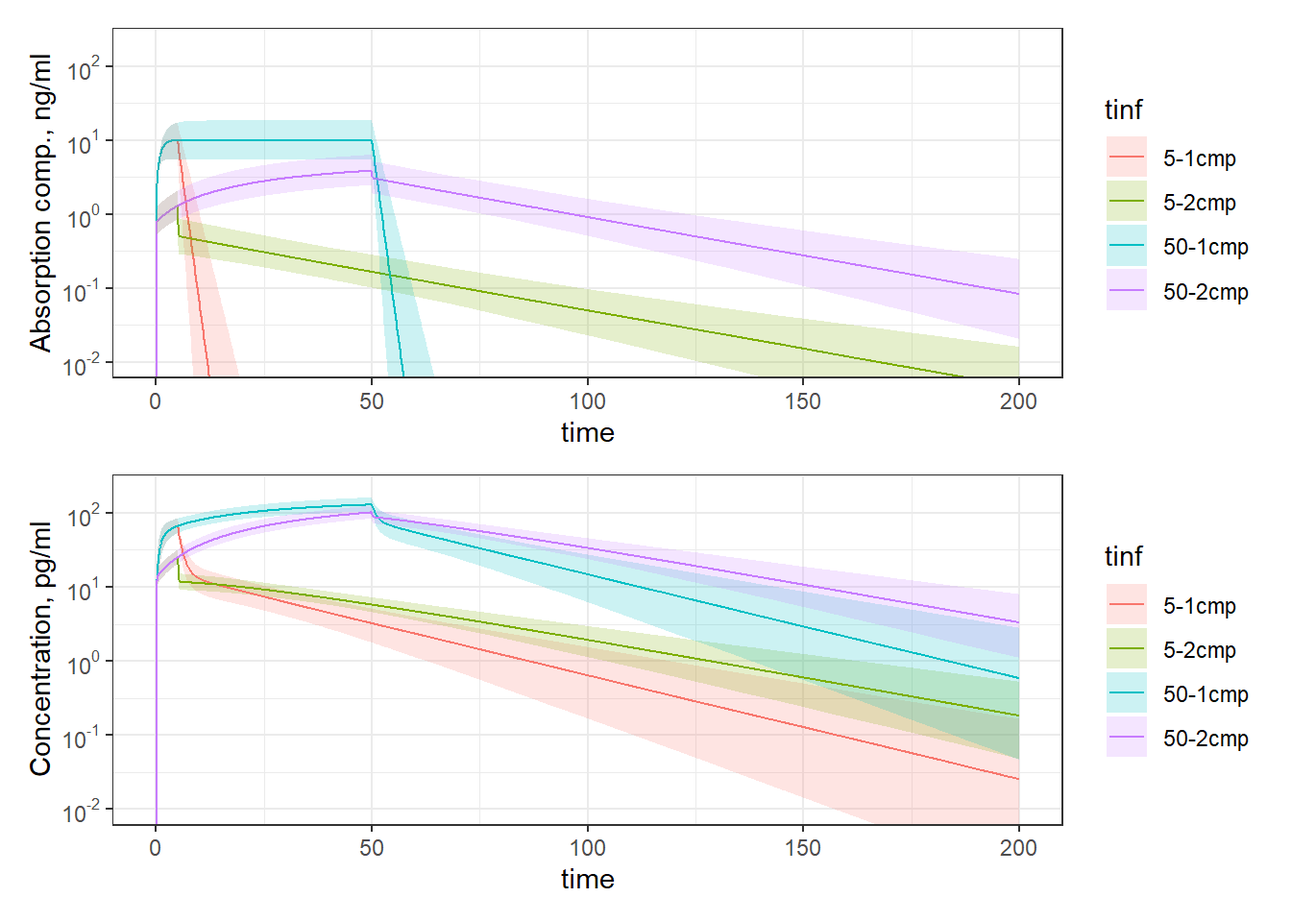
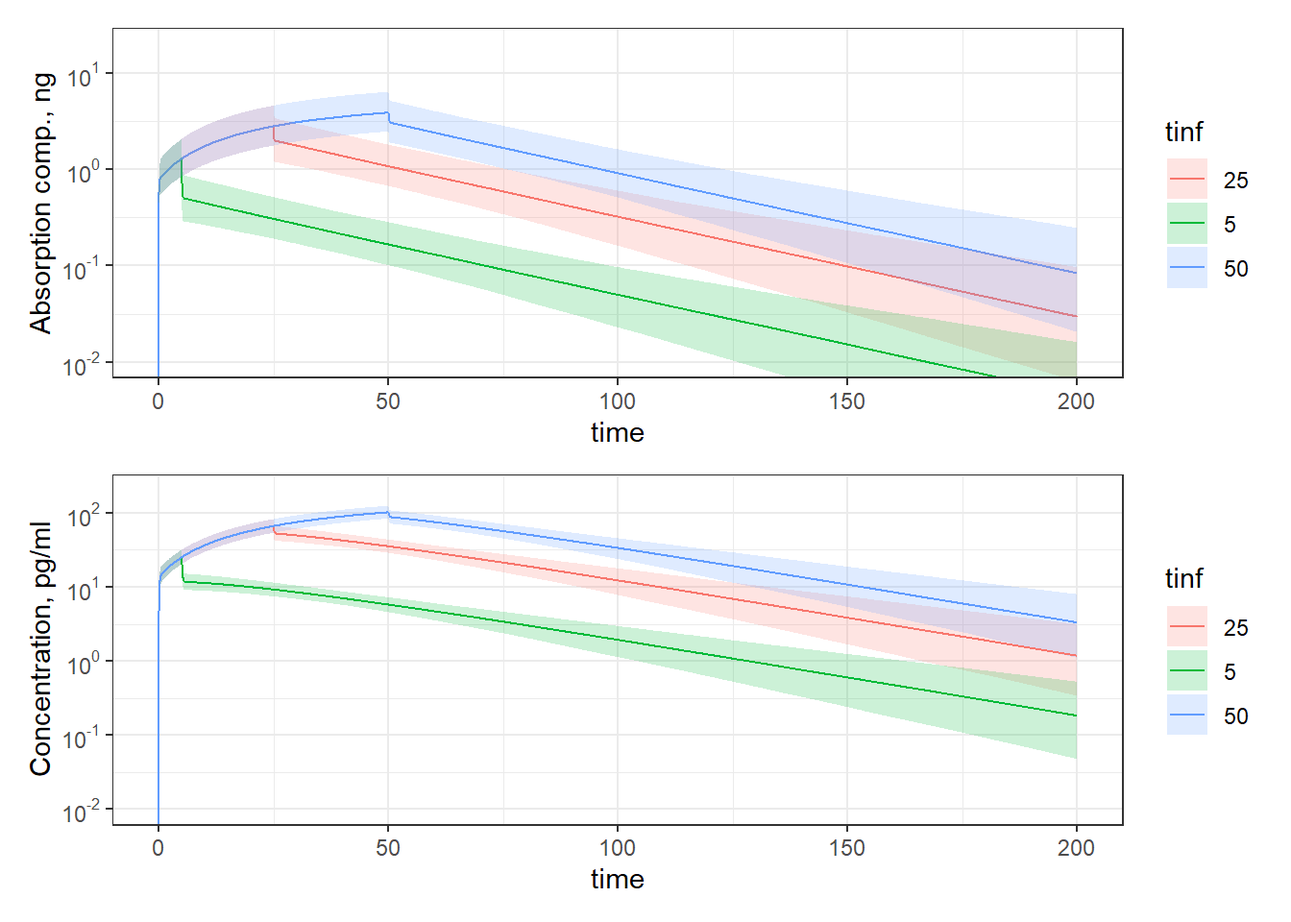
simulations

diff --git a/scripts/simulations.html b/scripts/simulations.html
@@ -11,7 +11,7 @@
 <meta name="author" content="Paulina Okuńska">
 <meta name="author" content="Agnieszka Borsuk-de Moor">
 <meta name="author" content="Justyna Ber">
-<meta name="dcterms.date" content="2025-01-14">
+<meta name="dcterms.date" content="2025-01-15">
 
 <title>Pharmacokinetics of sufentanil after epidural administration</title>
 <style>
@@ -137,7 +137,7 @@ div.csl-indent {
     <div>
     <div class="quarto-title-meta-heading">Published</div>
     <div class="quarto-title-meta-contents">
-      <p class="date">January 14, 2025</p>
+      <p class="date">January 15, 2025</p>
     </div>
   </div>
   
@@ -210,43 +210,43 @@ div.csl-indent {
 <span id="cb2-8"><a href="#cb2-8" aria-hidden="true" tabindex="-1"></a><span class="fu">dir.create</span>(model_tables_dir, <span class="at">recursive =</span> T)</span>
 <span id="cb2-9"><a href="#cb2-9" aria-hidden="true" tabindex="-1"></a></span>
 <span id="cb2-10"><a href="#cb2-10" aria-hidden="true" tabindex="-1"></a><span class="co">#----</span></span>
-<span id="cb2-11"><a href="#cb2-11" aria-hidden="true" tabindex="-1"></a>model_name <span class="ot">=</span> <span class="st">"2cmpabs-2cmpdisp"</span></span>
-<span id="cb2-12"><a href="#cb2-12" aria-hidden="true" tabindex="-1"></a>pkmod3 <span class="ot">&lt;-</span> <span class="fu">mread</span>(here<span class="sc">::</span><span class="fu">here</span>(sim_model_dir, model_name))</span>
+<span id="cb2-11"><a href="#cb2-11" aria-hidden="true" tabindex="-1"></a>model_name <span class="ot">=</span> <span class="st">"2cmpabs-1cmpdisp"</span></span>
+<span id="cb2-12"><a href="#cb2-12" aria-hidden="true" tabindex="-1"></a>pkmod1 <span class="ot">&lt;-</span> <span class="fu">mread</span>(here<span class="sc">::</span><span class="fu">here</span>(sim_model_dir, model_name))</span>
 <span id="cb2-13"><a href="#cb2-13" aria-hidden="true" tabindex="-1"></a>model_dir <span class="ot">&lt;-</span> here<span class="sc">::</span><span class="fu">here</span>(<span class="st">"model"</span>,<span class="st">"torsten"</span>) </span>
-<span id="cb2-14"><a href="#cb2-14" aria-hidden="true" tabindex="-1"></a>modx  <span class="ot">&lt;-</span> <span class="fu">read_model</span>(here<span class="sc">::</span><span class="fu">here</span>(model_dir, <span class="st">"3"</span>))</span>
+<span id="cb2-14"><a href="#cb2-14" aria-hidden="true" tabindex="-1"></a>modx  <span class="ot">&lt;-</span> <span class="fu">read_model</span>(here<span class="sc">::</span><span class="fu">here</span>(model_dir, <span class="st">"1"</span>))</span>
 <span id="cb2-15"><a href="#cb2-15" aria-hidden="true" tabindex="-1"></a>mod_to_plot <span class="ot">&lt;-</span> <span class="fu">read_fit_model</span>(modx)</span>
-<span id="cb2-16"><a href="#cb2-16" aria-hidden="true" tabindex="-1"></a>pars <span class="ot">=</span> <span class="fu">c</span>(<span class="st">"CLHat"</span>, <span class="st">"QHat"</span>, <span class="st">"V1Hat"</span>, <span class="st">"V2Hat"</span>, <span class="st">"KAHat"</span>, <span class="st">"KA14Hat"</span>, <span class="st">"KA41Hat"</span>)</span>
-<span id="cb2-17"><a href="#cb2-17" aria-hidden="true" tabindex="-1"></a>ptable3 <span class="ot">&lt;-</span> posterior<span class="sc">::</span><span class="fu">as_draws_df</span>(mod_to_plot<span class="sc">$</span><span class="fu">draws</span>(<span class="fu">c</span>(pars))) <span class="sc">%&gt;%</span></span>
+<span id="cb2-16"><a href="#cb2-16" aria-hidden="true" tabindex="-1"></a>pars <span class="ot">=</span> <span class="fu">c</span>(<span class="st">"CLHat"</span>, <span class="st">"QHat"</span>, <span class="st">"V1Hat"</span>, <span class="st">"V2Hat"</span>, <span class="st">"KAHat"</span>)</span>
+<span id="cb2-17"><a href="#cb2-17" aria-hidden="true" tabindex="-1"></a>ptable1 <span class="ot">&lt;-</span> posterior<span class="sc">::</span><span class="fu">as_draws_df</span>(mod_to_plot<span class="sc">$</span><span class="fu">draws</span>(<span class="fu">c</span>(pars))) <span class="sc">%&gt;%</span></span>
 <span id="cb2-18"><a href="#cb2-18" aria-hidden="true" tabindex="-1"></a>  <span class="fu">mutate</span>(<span class="at">ID=</span><span class="dv">1</span><span class="sc">:</span><span class="fu">n</span>()) <span class="sc">%&gt;%</span></span>
 <span id="cb2-19"><a href="#cb2-19" aria-hidden="true" tabindex="-1"></a>  <span class="fu">rename</span>(<span class="at">THETA1=</span>CLHat,</span>
 <span id="cb2-20"><a href="#cb2-20" aria-hidden="true" tabindex="-1"></a>         <span class="at">THETA2=</span>QHat,</span>
 <span id="cb2-21"><a href="#cb2-21" aria-hidden="true" tabindex="-1"></a>         <span class="at">THETA3=</span>V1Hat,</span>
 <span id="cb2-22"><a href="#cb2-22" aria-hidden="true" tabindex="-1"></a>         <span class="at">THETA4=</span>V2Hat,</span>
-<span id="cb2-23"><a href="#cb2-23" aria-hidden="true" tabindex="-1"></a>         <span class="at">THETA5=</span>KAHat,</span>
-<span id="cb2-24"><a href="#cb2-24" aria-hidden="true" tabindex="-1"></a>         <span class="at">THETA6=</span>KA14Hat,</span>
-<span id="cb2-25"><a href="#cb2-25" aria-hidden="true" tabindex="-1"></a>         <span class="at">THETA7=</span>KA41Hat)</span>
-<span id="cb2-26"><a href="#cb2-26" aria-hidden="true" tabindex="-1"></a></span>
-<span id="cb2-27"><a href="#cb2-27" aria-hidden="true" tabindex="-1"></a><span class="co">#----</span></span>
-<span id="cb2-28"><a href="#cb2-28" aria-hidden="true" tabindex="-1"></a>model_name <span class="ot">=</span> <span class="st">"2cmpabs-1cmpdisp"</span></span>
-<span id="cb2-29"><a href="#cb2-29" aria-hidden="true" tabindex="-1"></a>pkmod1 <span class="ot">&lt;-</span> <span class="fu">mread</span>(here<span class="sc">::</span><span class="fu">here</span>(sim_model_dir, model_name))</span>
-<span id="cb2-30"><a href="#cb2-30" aria-hidden="true" tabindex="-1"></a>model_dir <span class="ot">&lt;-</span> here<span class="sc">::</span><span class="fu">here</span>(<span class="st">"model"</span>,<span class="st">"torsten"</span>) </span>
-<span id="cb2-31"><a href="#cb2-31" aria-hidden="true" tabindex="-1"></a>modx  <span class="ot">&lt;-</span> <span class="fu">read_model</span>(here<span class="sc">::</span><span class="fu">here</span>(model_dir, <span class="st">"1"</span>))</span>
-<span id="cb2-32"><a href="#cb2-32" aria-hidden="true" tabindex="-1"></a>mod_to_plot <span class="ot">&lt;-</span> <span class="fu">read_fit_model</span>(modx)</span>
-<span id="cb2-33"><a href="#cb2-33" aria-hidden="true" tabindex="-1"></a>pars <span class="ot">=</span> <span class="fu">c</span>(<span class="st">"CLHat"</span>, <span class="st">"QHat"</span>, <span class="st">"V1Hat"</span>, <span class="st">"V2Hat"</span>, <span class="st">"KAHat"</span>)</span>
-<span id="cb2-34"><a href="#cb2-34" aria-hidden="true" tabindex="-1"></a>ptable1 <span class="ot">&lt;-</span> posterior<span class="sc">::</span><span class="fu">as_draws_df</span>(mod_to_plot<span class="sc">$</span><span class="fu">draws</span>(<span class="fu">c</span>(pars))) <span class="sc">%&gt;%</span></span>
-<span id="cb2-35"><a href="#cb2-35" aria-hidden="true" tabindex="-1"></a>  <span class="fu">mutate</span>(<span class="at">ID=</span><span class="dv">1</span><span class="sc">:</span><span class="fu">n</span>()) <span class="sc">%&gt;%</span></span>
-<span id="cb2-36"><a href="#cb2-36" aria-hidden="true" tabindex="-1"></a>  <span class="fu">rename</span>(<span class="at">THETA1=</span>CLHat,</span>
-<span id="cb2-37"><a href="#cb2-37" aria-hidden="true" tabindex="-1"></a>         <span class="at">THETA2=</span>QHat,</span>
-<span id="cb2-38"><a href="#cb2-38" aria-hidden="true" tabindex="-1"></a>         <span class="at">THETA3=</span>V1Hat,</span>
-<span id="cb2-39"><a href="#cb2-39" aria-hidden="true" tabindex="-1"></a>         <span class="at">THETA4=</span>V2Hat,</span>
-<span id="cb2-40"><a href="#cb2-40" aria-hidden="true" tabindex="-1"></a>         <span class="at">THETA5=</span>KAHat)</span></code><button title="Copy to Clipboard" class="code-copy-button"><i class="bi"></i></button></pre></div>
+<span id="cb2-23"><a href="#cb2-23" aria-hidden="true" tabindex="-1"></a>         <span class="at">THETA5=</span>KAHat)</span>
+<span id="cb2-24"><a href="#cb2-24" aria-hidden="true" tabindex="-1"></a></span>
+<span id="cb2-25"><a href="#cb2-25" aria-hidden="true" tabindex="-1"></a><span class="co">#----</span></span>
+<span id="cb2-26"><a href="#cb2-26" aria-hidden="true" tabindex="-1"></a>model_name <span class="ot">=</span> <span class="st">"2cmpabs-2cmpdisp"</span></span>
+<span id="cb2-27"><a href="#cb2-27" aria-hidden="true" tabindex="-1"></a>pkmod3 <span class="ot">&lt;-</span> <span class="fu">mread</span>(here<span class="sc">::</span><span class="fu">here</span>(sim_model_dir, model_name))</span>
+<span id="cb2-28"><a href="#cb2-28" aria-hidden="true" tabindex="-1"></a>model_dir <span class="ot">&lt;-</span> here<span class="sc">::</span><span class="fu">here</span>(<span class="st">"model"</span>,<span class="st">"torsten"</span>) </span>
+<span id="cb2-29"><a href="#cb2-29" aria-hidden="true" tabindex="-1"></a>modx  <span class="ot">&lt;-</span> <span class="fu">read_model</span>(here<span class="sc">::</span><span class="fu">here</span>(model_dir, <span class="st">"3"</span>))</span>
+<span id="cb2-30"><a href="#cb2-30" aria-hidden="true" tabindex="-1"></a>mod_to_plot <span class="ot">&lt;-</span> <span class="fu">read_fit_model</span>(modx)</span>
+<span id="cb2-31"><a href="#cb2-31" aria-hidden="true" tabindex="-1"></a>pars <span class="ot">=</span> <span class="fu">c</span>(<span class="st">"CLHat"</span>, <span class="st">"QHat"</span>, <span class="st">"V1Hat"</span>, <span class="st">"V2Hat"</span>, <span class="st">"KAHat"</span>, <span class="st">"KA14Hat"</span>, <span class="st">"KA41Hat"</span>)</span>
+<span id="cb2-32"><a href="#cb2-32" aria-hidden="true" tabindex="-1"></a>ptable3 <span class="ot">&lt;-</span> posterior<span class="sc">::</span><span class="fu">as_draws_df</span>(mod_to_plot<span class="sc">$</span><span class="fu">draws</span>(<span class="fu">c</span>(pars))) <span class="sc">%&gt;%</span></span>
+<span id="cb2-33"><a href="#cb2-33" aria-hidden="true" tabindex="-1"></a>  <span class="fu">mutate</span>(<span class="at">ID=</span><span class="dv">1</span><span class="sc">:</span><span class="fu">n</span>()) <span class="sc">%&gt;%</span></span>
+<span id="cb2-34"><a href="#cb2-34" aria-hidden="true" tabindex="-1"></a>  <span class="fu">rename</span>(<span class="at">THETA1=</span>CLHat,</span>
+<span id="cb2-35"><a href="#cb2-35" aria-hidden="true" tabindex="-1"></a>         <span class="at">THETA2=</span>QHat,</span>
+<span id="cb2-36"><a href="#cb2-36" aria-hidden="true" tabindex="-1"></a>         <span class="at">THETA3=</span>V1Hat,</span>
+<span id="cb2-37"><a href="#cb2-37" aria-hidden="true" tabindex="-1"></a>         <span class="at">THETA4=</span>V2Hat,</span>
+<span id="cb2-38"><a href="#cb2-38" aria-hidden="true" tabindex="-1"></a>         <span class="at">THETA5=</span>KAHat,</span>
+<span id="cb2-39"><a href="#cb2-39" aria-hidden="true" tabindex="-1"></a>         <span class="at">THETA6=</span>KA14Hat,</span>
+<span id="cb2-40"><a href="#cb2-40" aria-hidden="true" tabindex="-1"></a>         <span class="at">THETA7=</span>KA41Hat)</span></code><button title="Copy to Clipboard" class="code-copy-button"><i class="bi"></i></button></pre></div>
 </details>
 </div>
 <div class="cell">
 <details>
 <summary>Code</summary>
-<div class="sourceCode cell-code" id="cb3"><pre class="sourceCode r code-with-copy"><code class="sourceCode r"><span id="cb3-1"><a href="#cb3-1" aria-hidden="true" tabindex="-1"></a>data5_1<span class="ot">&lt;-</span>pkmod1 <span class="sc">%&gt;%</span> </span>
-<span id="cb3-2"><a href="#cb3-2" aria-hidden="true" tabindex="-1"></a>  <span class="fu">idata_set</span>(ptable1)<span class="sc">%&gt;%</span></span>
+<div class="sourceCode cell-code" id="cb3"><pre class="sourceCode r code-with-copy"><code class="sourceCode r"><span id="cb3-1"><a href="#cb3-1" aria-hidden="true" tabindex="-1"></a>data5_3<span class="ot">&lt;-</span>pkmod3 <span class="sc">%&gt;%</span> </span>
+<span id="cb3-2"><a href="#cb3-2" aria-hidden="true" tabindex="-1"></a>  <span class="fu">idata_set</span>(ptable3)<span class="sc">%&gt;%</span></span>
 <span id="cb3-3"><a href="#cb3-3" aria-hidden="true" tabindex="-1"></a>  <span class="fu">ev</span>(<span class="at">amt =</span> <span class="dv">50</span>, <span class="at">rate =</span> <span class="dv">10</span>) <span class="sc">%&gt;%</span> </span>
 <span id="cb3-4"><a href="#cb3-4" aria-hidden="true" tabindex="-1"></a>  <span class="fu">mrgsim</span>(<span class="at">start=</span><span class="dv">0</span>, <span class="at">end =</span> <span class="dv">200</span>, <span class="at">delta =</span> <span class="fl">0.1</span>) <span class="sc">%&gt;%</span></span>
 <span id="cb3-5"><a href="#cb3-5" aria-hidden="true" tabindex="-1"></a>  <span class="fu">as.data.frame</span>() <span class="sc">%&gt;%</span></span>
@@ -257,11 +257,11 @@ div.csl-indent {
 <span id="cb3-10"><a href="#cb3-10" aria-hidden="true" tabindex="-1"></a>            <span class="at">contq0.5 =</span>  <span class="fu">quantile</span>(CENT,<span class="at">probs=</span><span class="fu">c</span>(<span class="fl">0.5</span>)),</span>
 <span id="cb3-11"><a href="#cb3-11" aria-hidden="true" tabindex="-1"></a>            <span class="at">contq0.05 =</span> <span class="fu">quantile</span>(CENT,<span class="at">probs=</span><span class="fu">c</span>(<span class="fl">0.05</span>)),</span>
 <span id="cb3-12"><a href="#cb3-12" aria-hidden="true" tabindex="-1"></a>            <span class="at">contq0.95  =</span><span class="fu">quantile</span>(CENT,<span class="at">probs=</span><span class="fu">c</span>(<span class="fl">0.95</span>))) <span class="sc">%&gt;%</span></span>
-<span id="cb3-13"><a href="#cb3-13" aria-hidden="true" tabindex="-1"></a>  <span class="fu">mutate</span>(<span class="at">tinf =</span> <span class="st">"5-1cmp"</span>)</span>
+<span id="cb3-13"><a href="#cb3-13" aria-hidden="true" tabindex="-1"></a>  <span class="fu">mutate</span>(<span class="at">tinf =</span> <span class="st">"5"</span>)</span>
 <span id="cb3-14"><a href="#cb3-14" aria-hidden="true" tabindex="-1"></a></span>
-<span id="cb3-15"><a href="#cb3-15" aria-hidden="true" tabindex="-1"></a>data50_1<span class="ot">&lt;-</span>pkmod1 <span class="sc">%&gt;%</span> </span>
-<span id="cb3-16"><a href="#cb3-16" aria-hidden="true" tabindex="-1"></a>  <span class="fu">idata_set</span>(ptable1)<span class="sc">%&gt;%</span></span>
-<span id="cb3-17"><a href="#cb3-17" aria-hidden="true" tabindex="-1"></a>  <span class="fu">ev</span>(<span class="at">amt =</span> <span class="dv">500</span>, <span class="at">rate =</span> <span class="dv">10</span>) <span class="sc">%&gt;%</span> </span>
+<span id="cb3-15"><a href="#cb3-15" aria-hidden="true" tabindex="-1"></a>data25_3<span class="ot">&lt;-</span>pkmod3 <span class="sc">%&gt;%</span> </span>
+<span id="cb3-16"><a href="#cb3-16" aria-hidden="true" tabindex="-1"></a>  <span class="fu">idata_set</span>(ptable3)<span class="sc">%&gt;%</span></span>
+<span id="cb3-17"><a href="#cb3-17" aria-hidden="true" tabindex="-1"></a>  <span class="fu">ev</span>(<span class="at">amt =</span> <span class="dv">250</span>, <span class="at">rate =</span> <span class="dv">10</span>) <span class="sc">%&gt;%</span> </span>
 <span id="cb3-18"><a href="#cb3-18" aria-hidden="true" tabindex="-1"></a>  <span class="fu">mrgsim</span>(<span class="at">start=</span><span class="dv">0</span>, <span class="at">end =</span> <span class="dv">200</span>, <span class="at">delta =</span> <span class="fl">0.1</span>) <span class="sc">%&gt;%</span></span>
 <span id="cb3-19"><a href="#cb3-19" aria-hidden="true" tabindex="-1"></a>  <span class="fu">as.data.frame</span>() <span class="sc">%&gt;%</span></span>
 <span id="cb3-20"><a href="#cb3-20" aria-hidden="true" tabindex="-1"></a>  <span class="fu">group_by</span>(time) <span class="sc">%&gt;%</span></span>
@@ -271,11 +271,11 @@ div.csl-indent {
 <span id="cb3-24"><a href="#cb3-24" aria-hidden="true" tabindex="-1"></a>            <span class="at">contq0.5 =</span>  <span class="fu">quantile</span>(CENT,<span class="at">probs=</span><span class="fu">c</span>(<span class="fl">0.5</span>)),</span>
 <span id="cb3-25"><a href="#cb3-25" aria-hidden="true" tabindex="-1"></a>            <span class="at">contq0.05 =</span> <span class="fu">quantile</span>(CENT,<span class="at">probs=</span><span class="fu">c</span>(<span class="fl">0.05</span>)),</span>
 <span id="cb3-26"><a href="#cb3-26" aria-hidden="true" tabindex="-1"></a>            <span class="at">contq0.95  =</span><span class="fu">quantile</span>(CENT,<span class="at">probs=</span><span class="fu">c</span>(<span class="fl">0.95</span>))) <span class="sc">%&gt;%</span></span>
-<span id="cb3-27"><a href="#cb3-27" aria-hidden="true" tabindex="-1"></a>  <span class="fu">mutate</span>(<span class="at">tinf =</span> <span class="st">"50-1cmp"</span>)</span>
+<span id="cb3-27"><a href="#cb3-27" aria-hidden="true" tabindex="-1"></a>  <span class="fu">mutate</span>(<span class="at">tinf =</span> <span class="st">"25"</span>)</span>
 <span id="cb3-28"><a href="#cb3-28" aria-hidden="true" tabindex="-1"></a></span>
-<span id="cb3-29"><a href="#cb3-29" aria-hidden="true" tabindex="-1"></a>data5_3<span class="ot">&lt;-</span>pkmod3 <span class="sc">%&gt;%</span> </span>
+<span id="cb3-29"><a href="#cb3-29" aria-hidden="true" tabindex="-1"></a>data50_3<span class="ot">&lt;-</span>pkmod3 <span class="sc">%&gt;%</span> </span>
 <span id="cb3-30"><a href="#cb3-30" aria-hidden="true" tabindex="-1"></a>  <span class="fu">idata_set</span>(ptable3)<span class="sc">%&gt;%</span></span>
-<span id="cb3-31"><a href="#cb3-31" aria-hidden="true" tabindex="-1"></a>  <span class="fu">ev</span>(<span class="at">amt =</span> <span class="dv">50</span>, <span class="at">rate =</span> <span class="dv">10</span>) <span class="sc">%&gt;%</span> </span>
+<span id="cb3-31"><a href="#cb3-31" aria-hidden="true" tabindex="-1"></a>  <span class="fu">ev</span>(<span class="at">amt =</span> <span class="dv">500</span>, <span class="at">rate =</span> <span class="dv">10</span>) <span class="sc">%&gt;%</span> </span>
 <span id="cb3-32"><a href="#cb3-32" aria-hidden="true" tabindex="-1"></a>  <span class="fu">mrgsim</span>(<span class="at">start=</span><span class="dv">0</span>, <span class="at">end =</span> <span class="dv">200</span>, <span class="at">delta =</span> <span class="fl">0.1</span>) <span class="sc">%&gt;%</span></span>
 <span id="cb3-33"><a href="#cb3-33" aria-hidden="true" tabindex="-1"></a>  <span class="fu">as.data.frame</span>() <span class="sc">%&gt;%</span></span>
 <span id="cb3-34"><a href="#cb3-34" aria-hidden="true" tabindex="-1"></a>  <span class="fu">group_by</span>(time) <span class="sc">%&gt;%</span></span>
@@ -285,45 +285,31 @@ div.csl-indent {
 <span id="cb3-38"><a href="#cb3-38" aria-hidden="true" tabindex="-1"></a>            <span class="at">contq0.5 =</span>  <span class="fu">quantile</span>(CENT,<span class="at">probs=</span><span class="fu">c</span>(<span class="fl">0.5</span>)),</span>
 <span id="cb3-39"><a href="#cb3-39" aria-hidden="true" tabindex="-1"></a>            <span class="at">contq0.05 =</span> <span class="fu">quantile</span>(CENT,<span class="at">probs=</span><span class="fu">c</span>(<span class="fl">0.05</span>)),</span>
 <span id="cb3-40"><a href="#cb3-40" aria-hidden="true" tabindex="-1"></a>            <span class="at">contq0.95  =</span><span class="fu">quantile</span>(CENT,<span class="at">probs=</span><span class="fu">c</span>(<span class="fl">0.95</span>))) <span class="sc">%&gt;%</span></span>
-<span id="cb3-41"><a href="#cb3-41" aria-hidden="true" tabindex="-1"></a>  <span class="fu">mutate</span>(<span class="at">tinf =</span> <span class="st">"5-2cmp"</span>)</span>
+<span id="cb3-41"><a href="#cb3-41" aria-hidden="true" tabindex="-1"></a>  <span class="fu">mutate</span>(<span class="at">tinf =</span> <span class="st">"50"</span>)</span>
 <span id="cb3-42"><a href="#cb3-42" aria-hidden="true" tabindex="-1"></a></span>
-<span id="cb3-43"><a href="#cb3-43" aria-hidden="true" tabindex="-1"></a>data50_3<span class="ot">&lt;-</span>pkmod3 <span class="sc">%&gt;%</span> </span>
-<span id="cb3-44"><a href="#cb3-44" aria-hidden="true" tabindex="-1"></a>  <span class="fu">idata_set</span>(ptable3)<span class="sc">%&gt;%</span></span>
-<span id="cb3-45"><a href="#cb3-45" aria-hidden="true" tabindex="-1"></a>  <span class="fu">ev</span>(<span class="at">amt =</span> <span class="dv">500</span>, <span class="at">rate =</span> <span class="dv">10</span>) <span class="sc">%&gt;%</span> </span>
-<span id="cb3-46"><a href="#cb3-46" aria-hidden="true" tabindex="-1"></a>  <span class="fu">mrgsim</span>(<span class="at">start=</span><span class="dv">0</span>, <span class="at">end =</span> <span class="dv">200</span>, <span class="at">delta =</span> <span class="fl">0.1</span>) <span class="sc">%&gt;%</span></span>
-<span id="cb3-47"><a href="#cb3-47" aria-hidden="true" tabindex="-1"></a>  <span class="fu">as.data.frame</span>() <span class="sc">%&gt;%</span></span>
-<span id="cb3-48"><a href="#cb3-48" aria-hidden="true" tabindex="-1"></a>  <span class="fu">group_by</span>(time) <span class="sc">%&gt;%</span></span>
-<span id="cb3-49"><a href="#cb3-49" aria-hidden="true" tabindex="-1"></a>  <span class="fu">summarize</span>(<span class="at">absq0.5 =</span>  <span class="fu">quantile</span>(ABS,<span class="at">probs=</span><span class="fu">c</span>(<span class="fl">0.5</span>)),</span>
-<span id="cb3-50"><a href="#cb3-50" aria-hidden="true" tabindex="-1"></a>            <span class="at">absq0.05 =</span> <span class="fu">quantile</span>(ABS,<span class="at">probs=</span><span class="fu">c</span>(<span class="fl">0.05</span>)),</span>
-<span id="cb3-51"><a href="#cb3-51" aria-hidden="true" tabindex="-1"></a>            <span class="at">absq0.95  =</span><span class="fu">quantile</span>(ABS,<span class="at">probs=</span><span class="fu">c</span>(<span class="fl">0.95</span>)),</span>
-<span id="cb3-52"><a href="#cb3-52" aria-hidden="true" tabindex="-1"></a>            <span class="at">contq0.5 =</span>  <span class="fu">quantile</span>(CENT,<span class="at">probs=</span><span class="fu">c</span>(<span class="fl">0.5</span>)),</span>
-<span id="cb3-53"><a href="#cb3-53" aria-hidden="true" tabindex="-1"></a>            <span class="at">contq0.05 =</span> <span class="fu">quantile</span>(CENT,<span class="at">probs=</span><span class="fu">c</span>(<span class="fl">0.05</span>)),</span>
-<span id="cb3-54"><a href="#cb3-54" aria-hidden="true" tabindex="-1"></a>            <span class="at">contq0.95  =</span><span class="fu">quantile</span>(CENT,<span class="at">probs=</span><span class="fu">c</span>(<span class="fl">0.95</span>))) <span class="sc">%&gt;%</span></span>
-<span id="cb3-55"><a href="#cb3-55" aria-hidden="true" tabindex="-1"></a>  <span class="fu">mutate</span>(<span class="at">tinf =</span> <span class="st">"50-2cmp"</span>)</span>
-<span id="cb3-56"><a href="#cb3-56" aria-hidden="true" tabindex="-1"></a></span>
-<span id="cb3-57"><a href="#cb3-57" aria-hidden="true" tabindex="-1"></a>data <span class="ot">=</span> <span class="fu">rbind</span>(data5_1,data50_1,data5_3,data50_3)</span>
-<span id="cb3-58"><a href="#cb3-58" aria-hidden="true" tabindex="-1"></a></span>
-<span id="cb3-59"><a href="#cb3-59" aria-hidden="true" tabindex="-1"></a>p1 <span class="ot">&lt;-</span> data <span class="sc">%&gt;%</span></span>
-<span id="cb3-60"><a href="#cb3-60" aria-hidden="true" tabindex="-1"></a>  <span class="fu">ggplot</span>(<span class="fu">aes</span>(<span class="at">x=</span>time, <span class="at">y =</span> absq0<span class="fl">.5</span>, <span class="at">color=</span><span class="fu">as.factor</span>(tinf)))<span class="sc">+</span></span>
-<span id="cb3-61"><a href="#cb3-61" aria-hidden="true" tabindex="-1"></a>  <span class="fu">geom_line</span>()<span class="sc">+</span></span>
-<span id="cb3-62"><a href="#cb3-62" aria-hidden="true" tabindex="-1"></a>   <span class="fu">geom_ribbon</span>(<span class="fu">aes</span>(<span class="at">ymin =</span> absq0<span class="fl">.05</span>, <span class="at">ymax =</span> absq0<span class="fl">.95</span>, <span class="at">fill=</span><span class="fu">as.factor</span>(tinf)), <span class="at">colour =</span> <span class="cn">NA</span>, <span class="at">alpha =</span> <span class="fl">0.2</span>) <span class="sc">+</span> </span>
-<span id="cb3-63"><a href="#cb3-63" aria-hidden="true" tabindex="-1"></a>  <span class="fu">labs</span>(<span class="at">y =</span> <span class="st">"Absorption comp., ng/ml"</span>, <span class="at">color=</span><span class="st">"tinf"</span>, <span class="at">fill=</span><span class="st">"tinf"</span>)<span class="sc">+</span></span>
-<span id="cb3-64"><a href="#cb3-64" aria-hidden="true" tabindex="-1"></a>  <span class="fu">scale_y_continuous</span>(<span class="at">trans=</span><span class="st">'log10'</span>,</span>
-<span id="cb3-65"><a href="#cb3-65" aria-hidden="true" tabindex="-1"></a>                      <span class="at">breaks=</span><span class="fu">trans_breaks</span>(<span class="st">'log10'</span>, <span class="cf">function</span>(x) <span class="dv">10</span><span class="sc">^</span>x),</span>
-<span id="cb3-66"><a href="#cb3-66" aria-hidden="true" tabindex="-1"></a>                      <span class="at">labels=</span><span class="fu">trans_format</span>(<span class="st">'log10'</span>, <span class="fu">math_format</span>(<span class="dv">10</span><span class="sc">^</span>.x)))<span class="sc">+</span></span>
-<span id="cb3-67"><a href="#cb3-67" aria-hidden="true" tabindex="-1"></a>  <span class="fu">coord_cartesian</span>(<span class="at">ylim=</span><span class="fu">c</span>(<span class="fl">0.01</span>,<span class="dv">200</span>))</span>
-<span id="cb3-68"><a href="#cb3-68" aria-hidden="true" tabindex="-1"></a></span>
-<span id="cb3-69"><a href="#cb3-69" aria-hidden="true" tabindex="-1"></a>p2 <span class="ot">&lt;-</span> data <span class="sc">%&gt;%</span></span>
-<span id="cb3-70"><a href="#cb3-70" aria-hidden="true" tabindex="-1"></a>  <span class="fu">ggplot</span>(<span class="fu">aes</span>(<span class="at">x=</span>time, <span class="at">y =</span> contq0<span class="fl">.5</span>, <span class="at">color=</span><span class="fu">as.factor</span>(tinf)))<span class="sc">+</span></span>
-<span id="cb3-71"><a href="#cb3-71" aria-hidden="true" tabindex="-1"></a>   <span class="fu">geom_ribbon</span>(<span class="fu">aes</span>(<span class="at">ymin =</span> contq0<span class="fl">.05</span>, <span class="at">ymax =</span> contq0<span class="fl">.95</span>, <span class="at">fill=</span><span class="fu">as.factor</span>(tinf)), <span class="at">colour =</span> <span class="cn">NA</span>, <span class="at">alpha =</span> <span class="fl">0.2</span>) <span class="sc">+</span> </span>
-<span id="cb3-72"><a href="#cb3-72" aria-hidden="true" tabindex="-1"></a>  <span class="fu">geom_line</span>()<span class="sc">+</span></span>
-<span id="cb3-73"><a href="#cb3-73" aria-hidden="true" tabindex="-1"></a>  <span class="fu">labs</span>(<span class="at">y=</span><span class="st">"Concentration, pg/ml"</span>, <span class="at">color=</span><span class="st">"tinf"</span>, <span class="at">fill=</span><span class="st">"tinf"</span>) <span class="sc">+</span></span>
-<span id="cb3-74"><a href="#cb3-74" aria-hidden="true" tabindex="-1"></a>  <span class="fu">scale_y_continuous</span>(<span class="at">trans=</span><span class="st">'log10'</span>,</span>
-<span id="cb3-75"><a href="#cb3-75" aria-hidden="true" tabindex="-1"></a>                      <span class="at">breaks=</span><span class="fu">trans_breaks</span>(<span class="st">'log10'</span>, <span class="cf">function</span>(x) <span class="dv">10</span><span class="sc">^</span>x),</span>
-<span id="cb3-76"><a href="#cb3-76" aria-hidden="true" tabindex="-1"></a>                      <span class="at">labels=</span><span class="fu">trans_format</span>(<span class="st">'log10'</span>, <span class="fu">math_format</span>(<span class="dv">10</span><span class="sc">^</span>.x)))<span class="sc">+</span></span>
-<span id="cb3-77"><a href="#cb3-77" aria-hidden="true" tabindex="-1"></a>  <span class="fu">coord_cartesian</span>(<span class="at">ylim=</span><span class="fu">c</span>(<span class="fl">0.01</span>,<span class="dv">200</span>))</span>
-<span id="cb3-78"><a href="#cb3-78" aria-hidden="true" tabindex="-1"></a></span>
-<span id="cb3-79"><a href="#cb3-79" aria-hidden="true" tabindex="-1"></a>p1<span class="sc">/</span>p2</span></code><button title="Copy to Clipboard" class="code-copy-button"><i class="bi"></i></button></pre></div>
+<span id="cb3-43"><a href="#cb3-43" aria-hidden="true" tabindex="-1"></a>data <span class="ot">=</span> <span class="fu">rbind</span>(data5_3,data25_3,data50_3)</span>
+<span id="cb3-44"><a href="#cb3-44" aria-hidden="true" tabindex="-1"></a></span>
+<span id="cb3-45"><a href="#cb3-45" aria-hidden="true" tabindex="-1"></a>p1 <span class="ot">&lt;-</span> data <span class="sc">%&gt;%</span></span>
+<span id="cb3-46"><a href="#cb3-46" aria-hidden="true" tabindex="-1"></a>  <span class="fu">ggplot</span>(<span class="fu">aes</span>(<span class="at">x=</span>time, <span class="at">y =</span> absq0<span class="fl">.5</span>, <span class="at">color=</span><span class="fu">as.factor</span>(tinf)))<span class="sc">+</span></span>
+<span id="cb3-47"><a href="#cb3-47" aria-hidden="true" tabindex="-1"></a>  <span class="fu">geom_line</span>()<span class="sc">+</span></span>
+<span id="cb3-48"><a href="#cb3-48" aria-hidden="true" tabindex="-1"></a>   <span class="fu">geom_ribbon</span>(<span class="fu">aes</span>(<span class="at">ymin =</span> absq0<span class="fl">.05</span>, <span class="at">ymax =</span> absq0<span class="fl">.95</span>, <span class="at">fill=</span><span class="fu">as.factor</span>(tinf)), <span class="at">colour =</span> <span class="cn">NA</span>, <span class="at">alpha =</span> <span class="fl">0.2</span>) <span class="sc">+</span> </span>
+<span id="cb3-49"><a href="#cb3-49" aria-hidden="true" tabindex="-1"></a>  <span class="fu">labs</span>(<span class="at">y =</span> <span class="st">"Absorption comp., ng"</span>, <span class="at">color=</span><span class="st">"tinf"</span>, <span class="at">fill=</span><span class="st">"tinf"</span>)<span class="sc">+</span></span>
+<span id="cb3-50"><a href="#cb3-50" aria-hidden="true" tabindex="-1"></a>  <span class="fu">scale_y_continuous</span>(<span class="at">trans=</span><span class="st">'log10'</span>,</span>
+<span id="cb3-51"><a href="#cb3-51" aria-hidden="true" tabindex="-1"></a>                      <span class="at">breaks=</span><span class="fu">trans_breaks</span>(<span class="st">'log10'</span>, <span class="cf">function</span>(x) <span class="dv">10</span><span class="sc">^</span>x),</span>
+<span id="cb3-52"><a href="#cb3-52" aria-hidden="true" tabindex="-1"></a>                      <span class="at">labels=</span><span class="fu">trans_format</span>(<span class="st">'log10'</span>, <span class="fu">math_format</span>(<span class="dv">10</span><span class="sc">^</span>.x)))<span class="sc">+</span></span>
+<span id="cb3-53"><a href="#cb3-53" aria-hidden="true" tabindex="-1"></a>  <span class="fu">coord_cartesian</span>(<span class="at">ylim=</span><span class="fu">c</span>(<span class="fl">0.01</span>,<span class="dv">20</span>))</span>
+<span id="cb3-54"><a href="#cb3-54" aria-hidden="true" tabindex="-1"></a></span>
+<span id="cb3-55"><a href="#cb3-55" aria-hidden="true" tabindex="-1"></a>p2 <span class="ot">&lt;-</span> data <span class="sc">%&gt;%</span></span>
+<span id="cb3-56"><a href="#cb3-56" aria-hidden="true" tabindex="-1"></a>  <span class="fu">ggplot</span>(<span class="fu">aes</span>(<span class="at">x=</span>time, <span class="at">y =</span> contq0<span class="fl">.5</span>, <span class="at">color=</span><span class="fu">as.factor</span>(tinf)))<span class="sc">+</span></span>
+<span id="cb3-57"><a href="#cb3-57" aria-hidden="true" tabindex="-1"></a>   <span class="fu">geom_ribbon</span>(<span class="fu">aes</span>(<span class="at">ymin =</span> contq0<span class="fl">.05</span>, <span class="at">ymax =</span> contq0<span class="fl">.95</span>, <span class="at">fill=</span><span class="fu">as.factor</span>(tinf)), <span class="at">colour =</span> <span class="cn">NA</span>, <span class="at">alpha =</span> <span class="fl">0.2</span>) <span class="sc">+</span> </span>
+<span id="cb3-58"><a href="#cb3-58" aria-hidden="true" tabindex="-1"></a>  <span class="fu">geom_line</span>()<span class="sc">+</span></span>
+<span id="cb3-59"><a href="#cb3-59" aria-hidden="true" tabindex="-1"></a>  <span class="fu">labs</span>(<span class="at">y=</span><span class="st">"Concentration, pg/ml"</span>, <span class="at">color=</span><span class="st">"tinf"</span>, <span class="at">fill=</span><span class="st">"tinf"</span>) <span class="sc">+</span></span>
+<span id="cb3-60"><a href="#cb3-60" aria-hidden="true" tabindex="-1"></a>  <span class="fu">scale_y_continuous</span>(<span class="at">trans=</span><span class="st">'log10'</span>,</span>
+<span id="cb3-61"><a href="#cb3-61" aria-hidden="true" tabindex="-1"></a>                      <span class="at">breaks=</span><span class="fu">trans_breaks</span>(<span class="st">'log10'</span>, <span class="cf">function</span>(x) <span class="dv">10</span><span class="sc">^</span>x),</span>
+<span id="cb3-62"><a href="#cb3-62" aria-hidden="true" tabindex="-1"></a>                      <span class="at">labels=</span><span class="fu">trans_format</span>(<span class="st">'log10'</span>, <span class="fu">math_format</span>(<span class="dv">10</span><span class="sc">^</span>.x)))<span class="sc">+</span></span>
+<span id="cb3-63"><a href="#cb3-63" aria-hidden="true" tabindex="-1"></a>  <span class="fu">coord_cartesian</span>(<span class="at">ylim=</span><span class="fu">c</span>(<span class="fl">0.01</span>,<span class="dv">200</span>))</span>
+<span id="cb3-64"><a href="#cb3-64" aria-hidden="true" tabindex="-1"></a></span>
+<span id="cb3-65"><a href="#cb3-65" aria-hidden="true" tabindex="-1"></a>p1<span class="sc">/</span>p2</span></code><button title="Copy to Clipboard" class="code-copy-button"><i class="bi"></i></button></pre></div>
 </details>
 <div class="cell-output-display">
 <p><img src="simulations_files/figure-html/plots-1.png" class="img-fluid" style="width:95.0%"></p>
